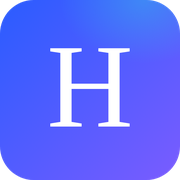
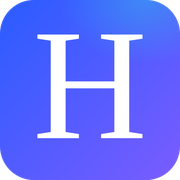
파비콘 H 크기 확대

Changed region(s): [[0.1944, 0.1667, 0.8056, 0.7778]]

diff --git a/_gen/favicon.html b/_gen/favicon.html
@@ -5,5 +5,5 @@ body{margin:0}
 .f{width:512px;height:512px;border-radius:96px;display:flex;align-items:center;justify-content:center;
   background:linear-gradient(135deg,#2A5CFF 0%,#7A5CFF 100%);position:relative;overflow:hidden}
 .f::after{content:"";position:absolute;inset:0;background:radial-gradient(400px 300px at 80% 0%,rgba(43,217,229,.35),transparent 60%)}
-.f span{font-family:'Marcellus',serif;font-size:340px;color:#fff;line-height:1;position:relative;z-index:1;margin-top:-20px}
+.f span{font-family:'Marcellus',serif;font-size:450px;color:#fff;line-height:1;position:relative;z-index:1;margin-top:-30px}
 </style></head><body><div class="f"><span>H</span></div></body></html>
